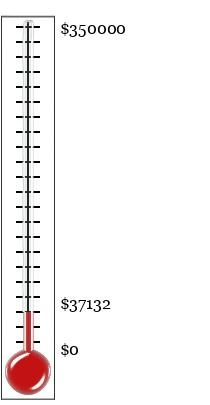
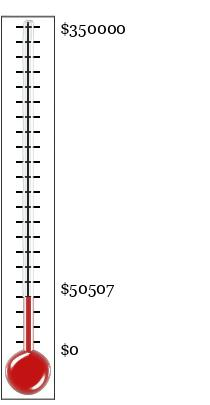
2024 fundraising update: Total funds raised $50507; OpenBSD community becomes Gold; HiFive B.V. becomes Bronze supporter

Changed region(s): [[0.2857, 0.6815, 0.5429, 0.7704], [0.0857, 0.7111, 0.1714, 0.7704]]

diff --git a/contributors.html b/contributors.html
@@ -104,140 +104,141 @@ to ensure your donation will be sufficient to get the desired recognition.
 On request we will provide a link to your website for donations of
     $5000 or more, and display your logo for donations of $10,000 or more.
 <HR>
-    <A HREF=campaign2024.html><h4>2024 Fundraising Campaign</h4></A>
-    <EM><A HREF=activities.html#2024>2024 Supported Activities</A></EM>
-    <UL>
-        <LI> Iridium: $100,000 and above
-        <LI> Platinum: $50,000 to $100,000
-        <LI> Gold: $25,000 to $50,000
-        <LI> Silver: $10,000 to $25,000
-            <UL>
-                <LI><A HREF=https://www.genua.de>genua gmbh</A>
-                <LI><A HREF=donations.html>Total from smaller donors</A>
-            </UL>
-        <LI> Bronze: $5,000 to $10,000
-    </UL>
+<A HREF=campaign2024.html><h4>2024 Fundraising Campaign</h4></A>
+<EM><A HREF=activities.html#2024>2024 Supported Activities</A></EM>
+<UL>
+<LI> Iridium: $100,000 and above
+<LI> Platinum: $50,000 to $100,000
+<LI> Gold: $25,000 to $50,000
+<LI><A HREF=donations.html>Total from smaller donors</A>
+<LI> Silver: $10,000 to $25,000
+<UL>
+<LI><A HREF=https://www.genua.de>genua gmbh</A>
+</UL>
+<LI> Bronze: $5,000 to $10,000
+<LI><A HREF=https://www.hifive.nl>HiFive B.V.</A>
+</UL>
 <HR>
 
 <HR>
-    <A HREF=campaign2023.html><h4>2023 Fundraising Campaign</h4></A>
-    <EM><A HREF=activities.html#2023>2023 Supported Activities</A></EM>
-    <UL>
-        <LI> Iridium: $100,000 and above
-         <UL>
-            <LI><A HREF=donations.html>Total from smaller donors</A>
-        </UL>
-        <LI> Platinum: $50,000 to $100,000
-            <UL>
-                <LI><A HREF=https://www.google.com>Google</A>
-            </UL>
-        <LI> Gold: $25,000 to $50,000
-            <UL>
-                <LI>Macrocosm, LLC
-                <LI><A HREF=https://ncsc.gov.ie/>NCSC Ireland</A>
-                <LI><A HREF=https://www.microsoft.com>Microsoft Corporation</A>
-            </UL>
-        <LI> Silver: $10,000 to $25,000
-            <UL>
-                <LI><A HREF=https://www.genua.de>genua gmbh</A>
-                <LI><A HREF=https://openbsd.amsterdam>OpenBSD Amsterdam</A>
-                <LI>Eric Grosse</LI>
-            </Ul>
-        <LI> Bronze: $5,000 to $10,000
-            <UL>
-              <LI><A HREF=https://canary.tools>Thinkst Canary</A>
-              <LI><A HREF=https://www.netelysis.com>Netelysis</A>
-            </Ul>
-    </UL>
+<A HREF=campaign2023.html><h4>2023 Fundraising Campaign</h4></A>
+<EM><A HREF=activities.html#2023>2023 Supported Activities</A></EM>
+<UL>
+<LI> Iridium: $100,000 and above
+<UL>
+<LI><A HREF=donations.html>Total from smaller donors</A>
+</UL>
+<LI> Platinum: $50,000 to $100,000
+<UL>
+<LI><A HREF=https://www.google.com>Google</A>
+</UL>
+<LI> Gold: $25,000 to $50,000
+<UL>
+<LI>Macrocosm, LLC
+<LI><A HREF=https://ncsc.gov.ie/>NCSC Ireland</A>
+<LI><A HREF=https://www.microsoft.com>Microsoft Corporation</A>
+</UL>
+<LI> Silver: $10,000 to $25,000
+<UL>
+<LI><A HREF=https://www.genua.de>genua gmbh</A>
+<LI><A HREF=https://openbsd.amsterdam>OpenBSD Amsterdam</A>
+<LI>Eric Grosse</LI>
+</Ul>
+<LI> Bronze: $5,000 to $10,000
+<UL>
+<LI><A HREF=https://canary.tools>Thinkst Canary</A>
+<LI><A HREF=https://www.netelysis.com>Netelysis</A>
+</Ul>
+</UL>
 <HR>
 
 <HR>
-    <A HREF=campaign2022.html><h4>2022 Fundraising Campaign</h4></A>
-    <EM><A HREF=activities.html#2022>2022 Supported Activities</A></EM>
-    <UL>
-        <LI> Iridium: $100,000 and above
-         <UL>
-            <LI><A HREF=donations.html>Total from smaller donors</A>
-            <LI><A HREF=https://www.google.com>Google</A>
-        </UL>
-        <LI> Platinum: $50,000 to $100,000
-            <UL>
-                <LI><A HREF=https://about.meta.com/>Meta Platforms, Inc.</A>
-            </UL>
-        <LI> Gold: $25,000 to $50,000
-            <UL>
-            <LI><A HREF=https://www.microsoft.com>Microsoft Corporation</A>
-            </UL>
-        <LI> Silver: $10,000 to $25,000
-            <UL>
-                <LI><A HREF=https://openbsd.amsterdam>OpenBSD Amsterdam</A>
-                <LI><A HREF=https://www.genua.de>genua gmbh</A>
-            </Ul>
-        <LI> Bronze: $5,000 to $10,000
-            <UL>
-                <LI><A HREF=https://canary.tools>Thinkst Canary</A>
-                <LI><A HREF=https://www.cargurus.com>CarGurus</A>
-                <LI><A HREF=https://www.netelysis.com>Netelysis</A>
-                <LI><A HREF=https://calyptix.com/>Calyptix</A>
-            </UL>
-    </UL>
+<A HREF=campaign2022.html><h4>2022 Fundraising Campaign</h4></A>
+<EM><A HREF=activities.html#2022>2022 Supported Activities</A></EM>
+<UL>
+<LI> Iridium: $100,000 and above
+<UL>
+<LI><A HREF=donations.html>Total from smaller donors</A>
+<LI><A HREF=https://www.google.com>Google</A>
+</UL>
+<LI> Platinum: $50,000 to $100,000
+<UL>
+<LI><A HREF=https://about.meta.com/>Meta Platforms, Inc.</A>
+</UL>
+<LI> Gold: $25,000 to $50,000
+<UL>
+<LI><A HREF=https://www.microsoft.com>Microsoft Corporation</A>
+</UL>
+<LI> Silver: $10,000 to $25,000
+<UL>
+<LI><A HREF=https://openbsd.amsterdam>OpenBSD Amsterdam</A>
+<LI><A HREF=https://www.genua.de>genua gmbh</A>
+</Ul>
+<LI> Bronze: $5,000 to $10,000
+<UL>
+<LI><A HREF=https://canary.tools>Thinkst Canary</A>
+<LI><A HREF=https://www.cargurus.com>CarGurus</A>
+<LI><A HREF=https://www.netelysis.com>Netelysis</A>
+<LI><A HREF=https://calyptix.com/>Calyptix</A>
+</UL>
+</UL>
 <HR>
-    <A HREF=campaign2021.html><h4>2021 Fundraising Campaign</h4></A>
-    <EM><A HREF=activities.html#2021>2021 Supported Activities</A></EM>
-    <UL>
-        <LI> Iridium: $100,000 and above
-            <UL>
-                <LI><A HREF=donations.html>Total from smaller donors</A>
-                <LI><A HREF=https://www.google.com>Google</A>
-            </UL>
-            <LI> Platinum: $50,000 to $100,000
-		<UL>
-                <LI><A HREF=https://about.facebook.com/meta>Meta Platforms Inc.</A>
-		</UL>
-                <LI> Gold: $25,000 to $50,000
-		<UL>
-                            <LI><A HREF=https://www.microsoft.com>Microsoft Corporation</A>
-		</UL>
-                    <LI> Silver: $10,000 to $25,000
-                       <LI> Bronze: $5,000 to $10,000
-                            <UL>
-                            <LI><A HREF=https://www.genua.de>genua gmbh</A>
-                            <LI><A HREF=https://canary.tools>Thinkst Canary</A>
-                            <LI>Leo Radvinsky
-                            <LI><A HREF=https://openbsd.amsterdam>OpenBSD Amsterdam</A>
-                           </Ul>
-    </UL>
+<A HREF=campaign2021.html><h4>2021 Fundraising Campaign</h4></A>
+<EM><A HREF=activities.html#2021>2021 Supported Activities</A></EM>
+<UL>
+<LI> Iridium: $100,000 and above
+<UL>
+<LI><A HREF=donations.html>Total from smaller donors</A>
+<LI><A HREF=https://www.google.com>Google</A>
+</UL>
+<LI> Platinum: $50,000 to $100,000
+<UL>
+<LI><A HREF=https://about.facebook.com/meta>Meta Platforms Inc.</A>
+</UL>
+<LI> Gold: $25,000 to $50,000
+<UL>
+<LI><A HREF=https://www.microsoft.com>Microsoft Corporation</A>
+</UL>
+<LI> Silver: $10,000 to $25,000
+<LI> Bronze: $5,000 to $10,000
+<UL>
+<LI><A HREF=https://www.genua.de>genua gmbh</A>
+<LI><A HREF=https://canary.tools>Thinkst Canary</A>
+<LI>Leo Radvinsky
+<LI><A HREF=https://openbsd.amsterdam>OpenBSD Amsterdam</A>
+</Ul>
+</UL>
 <HR>
-    <A HREF=campaign2020.html><h4>2020 Fundraising Campaign</h4></A>
-    <EM><A HREF=activities.html#2020>2020 Supported Activities</A></EM>
-    <UL>
-        <LI> Iridium: $100,000 and above
-            <UL>
-                <LI><A HREF=donations.html>Total from smaller donors</A>
-            </UL>
-            <LI> Platinum: $50,000 to $100,000
-                <UL>
-                    <LI><A HREF=https://www.google.com>Google</A>
-                </UL>
-                <LI> Gold: $25,000 to $50,000
-                    <UL>
-                        <LI>Camiel Dobbelaar
-                            <LI><A HREF=https://www.microsoft.com>Microsoft Corporation</A>
-                    </UL>
-                    <LI> Silver: $10,000 to $25,000
-                        <UL>
-                            <LI>John Carmack
-                                <LI>SEPPmail AG
-                        </UL>
-                        <LI> Bronze: $5,000 to $10,000
-                            <UL>
-                                <LI><A HREF=https://www.genua.de>genua gmbh</A>
-                                    <LI><A HREF=https://canary.tools>Thinkst Canary</A>
-                                        <LI><A HREF=https://openbsd.amsterdam>OpenBSD Amsterdam</A>
-                                            <LI>Paul D. Ouderkirk
-                                                <LI>Eric Grosse
-                            </UL>
-    </UL>
+<A HREF=campaign2020.html><h4>2020 Fundraising Campaign</h4></A>
+<EM><A HREF=activities.html#2020>2020 Supported Activities</A></EM>
+<UL>
+<LI> Iridium: $100,000 and above
+<UL>
+<LI><A HREF=donations.html>Total from smaller donors</A>
+</UL>
+<LI> Platinum: $50,000 to $100,000
+<UL>
+<LI><A HREF=https://www.google.com>Google</A>
+</UL>
+<LI> Gold: $25,000 to $50,000
+<UL>
+<LI>Camiel Dobbelaar
+<LI><A HREF=https://www.microsoft.com>Microsoft Corporation</A>
+</UL>
+<LI> Silver: $10,000 to $25,000
+<UL>
+<LI>John Carmack
+<LI>SEPPmail AG
+</UL>
+<LI> Bronze: $5,000 to $10,000
+<UL>
+<LI><A HREF=https://www.genua.de>genua gmbh</A>
+<LI><A HREF=https://canary.tools>Thinkst Canary</A>
+<LI><A HREF=https://openbsd.amsterdam>OpenBSD Amsterdam</A>
+<LI>Paul D. Ouderkirk
+<LI>Eric Grosse
+</UL>
+</UL>
 
 <HR>
 <A HREF=campaign2019.html><h4>2019 Fundraising Campaign</h4></A>
